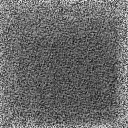
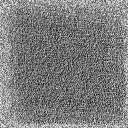
Further experimenting with architecture and filter visualization, almost looking like a face

diff --git a/src/cnn2.py b/src/cnn2.py
@@ -81,7 +81,6 @@ model.compile(loss='binary_crossentropy', optimizer='adam', metrics=["accuracy"]
 
 # batch_size = 16
 
-
 # train_datagen = ImageDataGenerator(
 #         rescale=1./255,
 #         shear_range=0.2,
@@ -103,6 +102,7 @@ model.compile(loss='binary_crossentropy', optimizer='adam', metrics=["accuracy"]
 #         max_acc = print_output(model, y_train, y_test, rng_seed)
 #         max_batch = i
 
+
 unique, counts = np.unique(y_train, return_counts=True)
 class_count_dict = dict(zip(unique, counts))
 
@@ -115,11 +115,11 @@ class_weight = {0 : len(y_train) / (class_count_dict[0]),
                 6 : len(y_train) / (class_count_dict[6]),
                 7 : len(y_train) / (class_count_dict[7])}
 
-model.fit(X_train, y_train_ohe, epochs=5, class_weight=class_weight, batch_size=16, verbose=1) # cross val to estimate test error
-predict4 = model.predict_classes(X_test, batch_size=16)
+model.fit(X_train, y_train_ohe, epochs=2, batch_size=16, class_weight=class_weight, verbose=1) # cross val to estimate test error
+# predict4 = model.predict_classes(X_test, batch_size=16)
 
 # predict = []
-# predict2 = model.predict(X_test, batch_size=16)
+predict2 = model.predict(X_test, batch_size=16)
 # for i, temp in enumerate(predict2):
 #     x0 = predict2[i,0] * 1 * -7.5
 #     x1 = predict2[i,1] * 1 * 0.5
@@ -210,4 +210,4 @@ predict4 = model.predict_classes(X_test, batch_size=16)
 # print("4: Average Guess: {}".format(sum(guess4)/len(guess4)))
 # print("5+: Average Guess: {}".format(sum([sum(guess5),sum(guess6),sum(guess7),sum(guess8)])/sum([len(guess5),len(guess6),len(guess7),len(guess8)])))
 #
-# model.save('models/parker.h5')
+model.save('../data/models/softmax.h5')

diff --git a/src/filter_visualization.py b/src/filter_visualization.py
@@ -42,7 +42,7 @@ def deprocess_image(x):
     return x
 
 # build the VGG16 network with ImageNet weights
-model = load_model('models/parker.h5')
+model = load_model('../data/models/softmax.h5')
 print('Model loaded.')
 
 model.summary()
@@ -69,7 +69,7 @@ for filter_index in range(0, 1):
     # we build a loss function that maximizes the activation
     # of the nth filter of the layer considered
     layer_output = layer_dict[layer_name].output
-    loss = K.mean(model.output[:, 1])
+    loss = K.mean(model.output[:, 0])
     # if K.image_data_format() == 'channels_first':
     #     loss = K.mean(layer_output[:, filter_index, :, :])
     # else:
